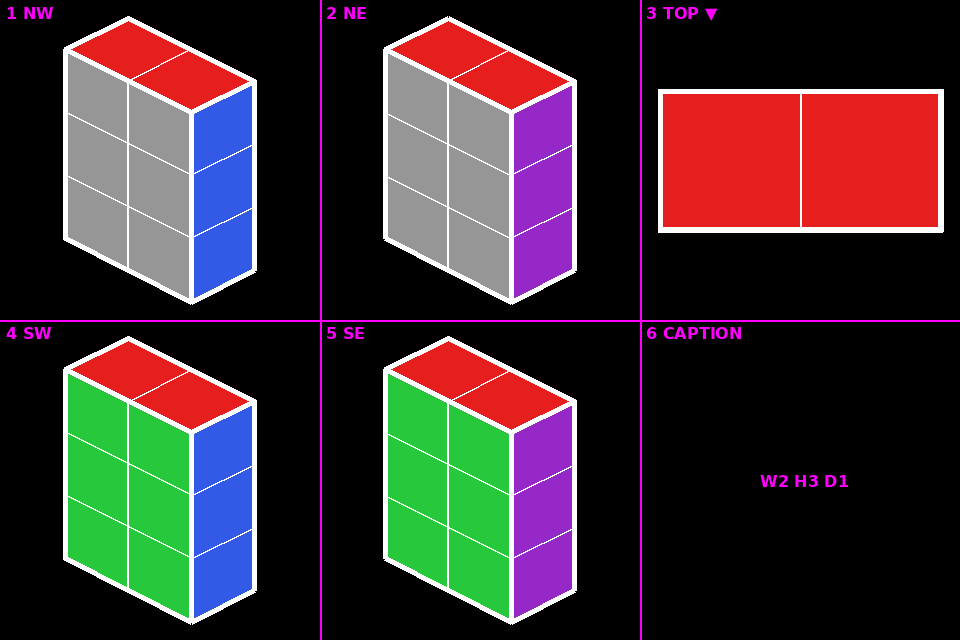
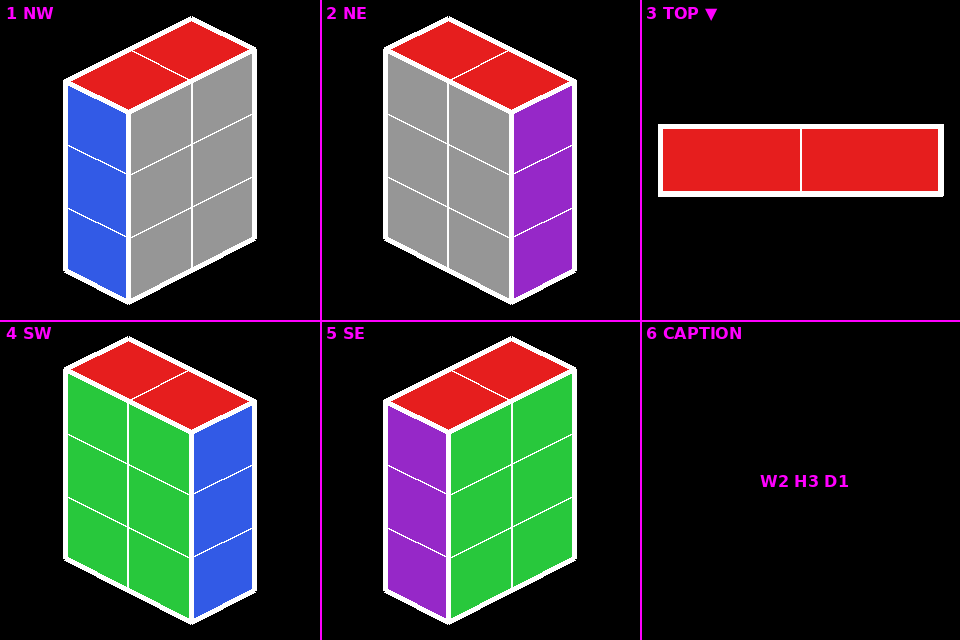
fix(pipeline): tile guide — real orientation model + fold-ratio, not per-view mirroring
The v1 fix (per-view coordinate mirroring) eliminated overlap but never
checked which screen side the result landed on — verified against the
user's reference deck by precise pixel measurement (topmost/leftmost
extremes, color sampling) and found genuinely mirrored: west cap on
the right, ridge descending when it should ascend.

Root cause, found by measuring all 4 reference panels: only ONE raw
geometric footprint is ever non-overlapping (long face at v=d, cap at
u=l — confirmed with shapely). {NE, SW} both use that exact footprint,
just recolored (gray+purple vs green+blue). {NW, SE} use its mirror
image, also just recolored (gray+blue vs green+purple). The rule is
an XOR on the view letters: mirror needed iff ('N' in view) != ('E' in
view). draw_iso_panel now always draws the one clean footprint onto a
scratch cell, picks colors from the view name, and mirrors the raster
(never the coordinates) when NW/SE — a horizontal flip of a valid
hexagon is always still valid, so this can't reintroduce the overlap
bug.

Also fixed the cardinal (N/S/W/E) panels: the folded top rows were
uniform-height with the body rows. Measured the reference precisely
(pixel run-lengths) and found the folded rows are shorter — matches
TOP_FOLD_RATIO = _UY/_UZ = 0.5, the same ratio already governing the
iso views, applied here for the first time.

diff --git a/pipeline/tile_guide_render.py b/pipeline/tile_guide_render.py
@@ -1,6 +1,8 @@
 #!/usr/bin/env python3
 """tile_guide_render.py — dimetric box-face geometry and single-panel drawing for tile guides."""
 
+from PIL import Image, ImageDraw
+
 TOP_RED     = (230, 30, 30)
 BACK_GRAY   = (150, 150, 150)
 FRONT_GREEN = (40, 200, 60)
@@ -12,30 +14,16 @@ SIL_WIDTH   = 5
 GRID_WIDTH  = 2
 
 # Unit-scale corner offsets (2:1 dimetric — 26.57°). Real pixels = these * s.
-# uz = 2*uy on purpose (standard "full tile height" convention) — this is only
-# safe because draw_iso_panel mirrors u/v per view (see _view_axes); the naive
-# single-quadrant formula makes opposite box corners coincide otherwise.
 _UX, _UY, _UZ = 1.0, 0.5, 1.0
+# Folded-top row height, relative to a body row: a D- or W-unit folds flat
+# using the same _UY that governs it in the iso views, vs. a body row's _UZ.
+TOP_FOLD_RATIO = _UY / _UZ
 
 
 def _corner(u, v, z):
     x = (u - v) * _UX
     y = (u + v) * _UY - z * _UZ
     return x, y
-
-
-def _view_axes(view, l, d):
-    """Mirror u/v per diagonal view so the visible side faces always sit at
-    the 'max' end of their local axis — the only configuration this
-    projection renders without the two side faces overlapping (verified
-    numerically: north+east is clean, the other 3 raw combos are not)."""
-    flip_u = "W" in view
-    flip_v = "S" in view
-
-    def tr(u, v):
-        return (l - u if flip_u else u), (d - v if flip_v else v)
-
-    return tr
 
 
 def _bbox(l, d, h):
@@ -59,8 +47,8 @@ def _origin_for_cell(l, d, h, cell_box, pad):
     avail_w, avail_h = cw - 2 * pad, ch - 2 * pad
     s = fit_scale(l, d, h, avail_w, avail_h)
     minx, maxx, miny, maxy = _bbox(l, d, h)
-    ox = cx + pad - minx * s + (avail_w - (maxx - minx) * s) / 2
-    oy = cy + pad - miny * s + (avail_h - (maxy - miny) * s) / 2
+    ox = pad - minx * s + (avail_w - (maxx - minx) * s) / 2
+    oy = pad - miny * s + (avail_h - (maxy - miny) * s) / 2
     return s, ox, oy
 
 
@@ -79,52 +67,67 @@ def _quad_grid(draw, uvz_fn, steps_a, steps_b, color, s, ox, oy):
         draw.line([scr(0, b), scr(steps_a, b)], fill=GRID_LINE, width=GRID_WIDTH)
 
 
-def draw_iso_panel(draw, l, d, h, view, cell_box, pad=18):
-    """One 3-face dimetric box view. view in {NW, NE, SW, SE}."""
-    s, ox, oy = _origin_for_cell(l, d, h, cell_box, pad)
-    tr = _view_axes(view, l, d)
-    north = view in ("NW", "NE")
-    west = view in ("NW", "SW")
-    ns_color = BACK_GRAY if north else FRONT_GREEN
-    ew_color = WEST_BLUE if west else EAST_PURPLE
-    ns_v = d if north else 0
-    ew_u = 0 if west else l
+def draw_iso_panel(img, l, d, h, view, cell_box, pad=18):
+    """One 3-face dimetric box view. view in {NW, NE, SW, SE}.
 
-    def ns_uvz(a, b):
-        u, v = tr(a, ns_v)
-        return u, v, b
+    The raw formula only tiles into a non-overlapping hexagon for one fixed
+    corner (long face at v=d, cap at u=l) — verified numerically (shapely,
+    zero pairwise intersection) and against the reference deck. NE and SW
+    use that geometry directly (recolored — NE:gray+purple, SW:green+blue,
+    same footprint). NW and SE need the mirror image of it (recolored
+    gray+blue / green+purple) — done by rendering to a scratch cell and
+    flipping, never by re-deriving the geometry, since a horizontal mirror
+    of a valid hexagon is always still valid.
+    """
+    is_north = "N" in view
+    is_east = "E" in view
+    needs_mirror = is_north != is_east
+    long_color = BACK_GRAY if is_north else FRONT_GREEN
+    cap_color = EAST_PURPLE if is_east else WEST_BLUE
 
-    def ew_uvz(a, b):
-        u, v = tr(ew_u, a)
-        return u, v, b
+    cx, cy, cw, ch = cell_box
+    scratch = Image.new("RGB", (cw, ch), (0, 0, 0))
+    sdraw = ImageDraw.Draw(scratch)
+    s, ox, oy = _origin_for_cell(l, d, h, (0, 0, cw, ch), pad)
 
-    def top_uvz(a, b):
-        u, v = tr(a, b)
-        return u, v, h
+    _quad_grid(sdraw, lambda a, b: (a, d, b), l, h, long_color, s, ox, oy)
+    _quad_grid(sdraw, lambda a, b: (l, a, b), d, h, cap_color, s, ox, oy)
+    _quad_grid(sdraw, lambda a, b: (a, b, h), l, d, TOP_RED, s, ox, oy)
 
-    _quad_grid(draw, ns_uvz, l, h, ns_color, s, ox, oy)
-    _quad_grid(draw, ew_uvz, d, h, ew_color, s, ox, oy)
-    _quad_grid(draw, top_uvz, l, d, TOP_RED, s, ox, oy)
+    if needs_mirror:
+        scratch = scratch.transpose(Image.FLIP_LEFT_RIGHT)
+    img.paste(scratch, (cx, cy))
 
 
 def draw_flat_grid(draw, cols, rows, body_color, top_rows, cell_box, pad=18):
     """Orthographic elevation, unfolded-net style: cols x rows cells, the top
-    `top_rows` rows are the TOP face folded flat above the body (TOP_RED)."""
+    `top_rows` rows are the TOP face folded flat above the body (TOP_RED),
+    drawn shorter than a body row by TOP_FOLD_RATIO (matches the iso views'
+    own D/W-unit vs H-unit proportions)."""
     cx, cy, cw, ch = cell_box
     avail_w, avail_h = cw - 2 * pad, ch - 2 * pad
-    cell_s = min(avail_w / cols, avail_h / rows)
-    grid_w, grid_h = cols * cell_s, rows * cell_s
+    body_rows = rows - top_rows
+    units = cols
+    row_units = body_rows + top_rows * TOP_FOLD_RATIO
+    cell_s = min(avail_w / units, avail_h / row_units)
+    top_row_h = cell_s * TOP_FOLD_RATIO
+    grid_w = cols * cell_s
+    grid_h = top_rows * top_row_h + body_rows * cell_s
     ox, oy = cx + (cw - grid_w) / 2, cy + (ch - grid_h) / 2
 
+    def row_y(r):
+        return oy + (r * top_row_h if r <= top_rows else top_rows * top_row_h + (r - top_rows) * cell_s)
+
     for r in range(rows):
+        y0, y1 = row_y(r), row_y(r + 1)
         for c in range(cols):
-            x0, y0 = ox + c * cell_s, oy + r * cell_s
+            x0 = ox + c * cell_s
             fill = TOP_RED if r < top_rows else body_color
-            draw.rectangle([x0, y0, x0 + cell_s, y0 + cell_s], fill=fill)
+            draw.rectangle([x0, y0, x0 + cell_s, y1], fill=fill)
     for c in range(cols + 1):
         x = ox + c * cell_s
         draw.line([(x, oy), (x, oy + grid_h)], fill=GRID_LINE, width=GRID_WIDTH)
     for r in range(rows + 1):
-        y = oy + r * cell_s
+        y = row_y(r)
         draw.line([(ox, y), (ox + grid_w, y)], fill=GRID_LINE, width=GRID_WIDTH)
     draw.rectangle([ox, oy, ox + grid_w, oy + grid_h], outline=SILHOUETTE, width=SIL_WIDTH)

diff --git a/pipeline/make_tile_guide.py b/pipeline/make_tile_guide.py
@@ -38,9 +38,9 @@ LAYOUTS = {
 }
 
 
-def _draw_panel(draw, kind, w, d, h, box):
+def _draw_panel(img, draw, kind, w, d, h, box):
     if kind in ("NW", "NE", "SW", "SE"):
-        draw_iso_panel(draw, w, d, h, kind, box)
+        draw_iso_panel(img, w, d, h, kind, box)
     elif kind == "N":
         draw_flat_grid(draw, w, d + h, BACK_GRAY, d, box)
     elif kind == "S":
@@ -78,7 +78,7 @@ def generate(w, d, h, layout, out_path: Path):
             if kind == "CAPTION":
                 _draw_caption(draw, box, font, w, d, h)
             else:
-                _draw_panel(draw, kind, w, d, h, box)
+                _draw_panel(img, draw, kind, w, d, h, box)
             draw.text((box[0] + 6, box[1] + 4), _panel_label(r, c, kind), font=font, fill=MAGENTA)
 
     for c in range(1, cols):

diff --git a/pipeline/CONTEXT.md b/pipeline/CONTEXT.md
@@ -19,6 +19,6 @@
 | [`render_iso.py`](render_iso.py) | [`render_iso.pyi`](render_iso.pyi) | `parse_args`, `apply_uv_texture`, `load_fbx`, `render_one`, `main` | [OBSOLETE-MESH] render_iso.py — Isometric sprite render (all 8 directions, fixed config). |
 | [`rotate_mesh.py`](rotate_mesh.py) | [`rotate_mesh.pyi`](rotate_mesh.pyi) | `rotate_y`, `rotate_axis`, `main` | !/usr/bin/env python3 |
 | [`sheet_to_tpose.py`](sheet_to_tpose.py) | [`sheet_to_tpose.pyi`](sheet_to_tpose.pyi) | `cell_box`, `extract` | !/usr/bin/env python3 |
-| [`tile_guide_render.py`](tile_guide_render.py) | [`tile_guide_render.pyi`](tile_guide_render.pyi) | `fit_scale`, `draw_iso_panel`, `draw_flat_grid`, `tr`, `scr` | !/usr/bin/env python3 |
+| [`tile_guide_render.py`](tile_guide_render.py) | [`tile_guide_render.pyi`](tile_guide_render.pyi) | `fit_scale`, `draw_iso_panel`, `draw_flat_grid`, `scr`, `row_y` | !/usr/bin/env python3 |
 | [`triposr_mesh.py`](triposr_mesh.py) | [`triposr_mesh.pyi`](triposr_mesh.pyi) | `parse_args`, `main` | ← add first-line comment |
 <!-- routing:end -->